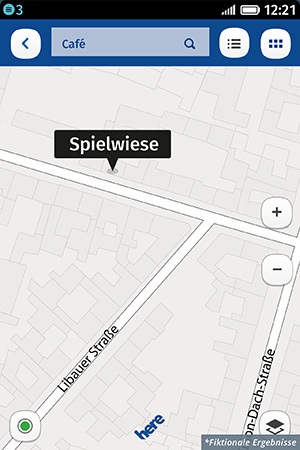
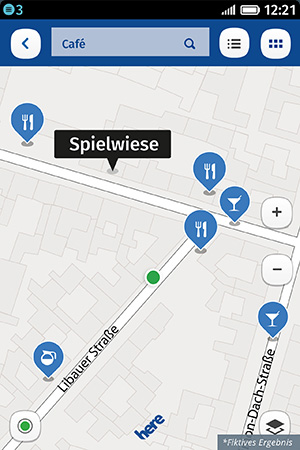
[bug 914328] Update Firefox OS Maps screenshots for DE, HU

diff --git a/bedrock/firefox/templates/firefox/os/index.html b/bedrock/firefox/templates/firefox/os/index.html
@@ -306,7 +306,7 @@
             <li class="icon maps"></li>
           </ul>
         </div>
-        <img class="app right" id="maps-app" src="{{ img_l10n('firefox/os/have-it-all/maps.jpg') }}" alt="{{_('Maps app')}}">
+        <img class="app right" id="maps-app" src="{{ img_l10n('firefox/os/have-it-all/maps.jpg') }}?2013-09" alt="{{_('Maps app')}}">
       </section>
     </div>
 
